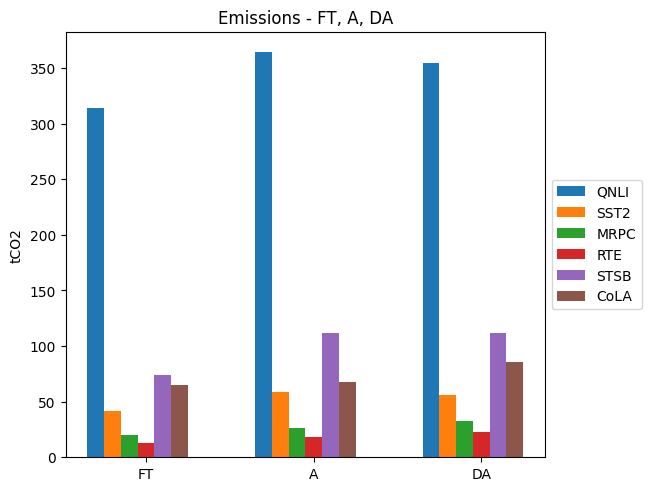
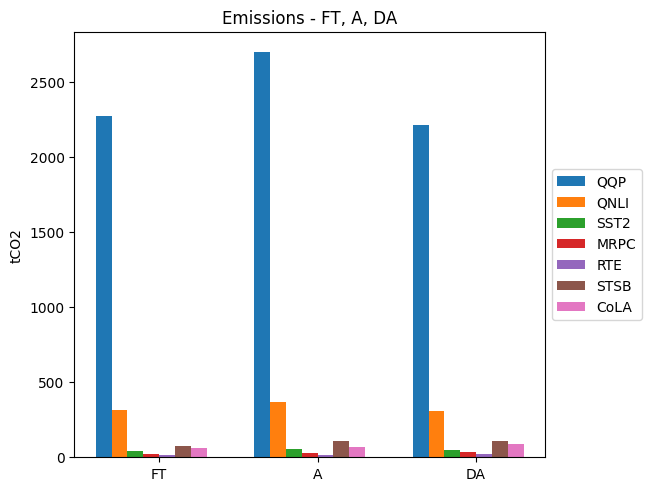
update plot

diff --git a/graph/graph_paper/Prune/PDA/plot_accuracy.py b/graph/graph_paper/Prune/PDA/plot_accuracy.py
@@ -1,17 +1,17 @@
 import matplotlib.pyplot as plt
 import numpy as np
 
-sparsity = (0.1, 0.6, 0.8, 0.9, 0.95)
+sparsity = (0.1, 0.6, 0.8, 0.9)
 
 accuracy = {
-    'QQP':(),
-    'SST2':(50.11467889908257,50.34403669724771,49.08256880733945,49.08256880733945,47.256880733945), #ok
-    'QNLI':(),
+    'QQP':(50.2699279739296,49.42090369751846,48.9144856820136,47.654662),
+    'SST2':(50.11467889908257,50.34403669724771,49.08256880733945,49.08256880733945), #ok
+    'QNLI':(45.17664287021783,47.51967783269266,48.67289035328574,50.19220208676551),
     # 'MNLI':(),
-    'MRPC':(85.04901960784313,81.37254901960784,68.38235294117647,68.38235294117647,68.38235294117647),#ok
-    'RTE':(46.20938628158845,46.93140794223827,47.29241877256318,47.29241877256318,47.29241877256318), # ok mais revoir les valeurs 
-    'STSB':(50.07428267557028,46.33345259898447,33.07965448934107,29.8084794950969,24.655022790058848),
-    'CoLA':(55.44150232282876,51.35883913087378,51.01325453983456,50.98463387782821,49.2) #ok
+    'MRPC':(85.04901960784313,81.37254901960784,68.38235294117647,68.38235294117647),#ok
+    'RTE':(46.20938628158845,46.93140794223827,47.29241877256318,47.29241877256318), # ok mais revoir les valeurs 
+    'STSB':(50.07428267557028,46.33345259898447,33.07965448934107,29.8084794950969),
+    'CoLA':(55.44150232282876,51.35883913087378,51.01325453983456,50.98463387782821) #ok
 }
 
 x = np.arange(len(sparsity))  # the label locations
@@ -25,10 +25,10 @@ for attribute, measurement in accuracy.items():
     multiplier += 1
 # ax.set_ylim(bottom=0, top=0.03)
 
-ax.set_ylabel('Accuracy')
-ax.set_title('Accuracy - FT, A, DA')
+ax.set_ylabel('Performance metrics')
+ax.set_title('Efficiency - P+D+A')
 ax.set_xticks(x + width * len(accuracy) / 2, sparsity)
 ax.legend(loc='center left', bbox_to_anchor=(1, 0.5))
 
-plt.savefig('../../../../images/paper/no_prune/graph_accuracy.png', bbox_inches='tight')
+plt.savefig('../../../../images/paper/prune/PDA/graph_accuracy.png', bbox_inches='tight')
 plt.show()

diff --git a/graph/graph_paper/Prune/PDA/plot_speedup.py b/graph/graph_paper/Prune/PDA/plot_speedup.py
@@ -1,17 +1,17 @@
 import matplotlib.pyplot as plt
 import numpy as np
 
-sparity = (0.1, 0.4, 0.6, 0.7, 0.8, 0.9, 0.95)
+sparity = (0.1, 0.6, 0.8, 0.9)
 
 size = {
-    'QQP':(),
-    'SST2':(1.9689297320645885,1.0352106679470167,0.5721097145605524,0.37766302670907536,0.272302670907536),#ok
-    'QNLI':(),
+    'QQP':(2.0437042459001526,0.982533986103172,0,0),
+    'SST2':(1.9689297320645885,0.5721097145605524,0.37766302670907536,0.272302670907536),#ok
+    'QNLI':(3.989732234922713,1.8229285003107676,1.0452005816492301,0.4941040771731565),
     # 'MNLI':(),
-    'MRPC':(4.206484439326268,1.987176782944623,1.2113391983988853,0.7892912263348622,0.4393470976251813),#ok
-    'RTE':(3.993594553587034,2.0576774587020568,1.2434098332321918,0.8254616110582622,0.48822109041933364),#ok
-    'STSB':(1.9787427918952806,1.0526622387400846,0.8368908982527883,0.5977909774111029,0.36043778636999296),#ok
-    'CoLA':()
+    'MRPC':(4.206484439326268,1.2113391983988853,0.7892912263348622,0.4393470976251813),#ok
+    'RTE':(3.993594553587034,1.2434098332321918,0.8254616110582622,0.48822109041933364),#ok
+    'STSB':(1.9787427918952806,0.8368908982527883,0.5977909774111029,0.36043778636999296),#ok
+    'CoLA':(1.9824828606847256,1.0158996405897223,0.5815955051026154,0.37790934084378164)#ok
 }
 
 x = np.arange(len(sparity))  # the label locations
@@ -25,10 +25,10 @@ for attribute, measurement in size.items():
     multiplier += 1
 # ax.set_ylim(bottom=0, top=0.03)
 
-ax.set_ylabel('Time')
+ax.set_ylabel('Time (ms)')
 ax.set_title('Speedup - P+D+A')
 ax.set_xticks(x + width * len(size) / 2, sparity)
 ax.legend(loc='center left', bbox_to_anchor=(1, 0.5))
 
-plt.savefig('../../../../images/paper/no_prune/graph_speedup.png', bbox_inches='tight')
+plt.savefig('../../../../images/paper/prune/PDA/graph_speedup.png', bbox_inches='tight')
 plt.show()

diff --git a/graph/graph_paper/Prune/PDA/plot_emissions.py b/graph/graph_paper/Prune/PDA/plot_emissions.py
@@ -1,17 +1,17 @@
 import matplotlib.pyplot as plt
 import numpy as np
 
-sparity = (0.1, 0.6, 0.8, 0.9, 0.95)
+sparity = (0.1, 0.6, 0.8, 0.9)
 
 accuracy = {
-    'QQP':(),
-    'SST2':(46.7708402,26.28957,16.25215,11.24177,9.2),#ok
-    'QNLI':(),
+    'QQP':(24.85539,12.59965,0,0),
+    'SST2':(46.7708402,26.28957,16.25215,11.24177),#ok
+    'QNLI':(280.426954,130.330862,75.0813811,38.964701),
     # 'MNLI':(),
-    'MRPC':(34.22431235531543,21.03471283150326,5.14063212116454,2.663924820912916,1.4348886455689411),# ok
-    'RTE':(12.47463769,6.11704943,3.5869906129,1.674946,1.0852959),#ok
-    'STSB':(80.93687,60.1658,45.5145054872,27.9758947,19.4759700), #ok
-    'CoLA':(47.052743671,21.78709,13.3962164,9.5512071,6.8) #ok
+    'MRPC':(34.22431235531543,21.03471283150326,5.14063212116454,2.663924820912916),# ok
+    'RTE':(12.47463769,6.11704943,3.5869906129,1.674946),#ok
+    'STSB':(80.93687,60.1658,45.5145054872,27.9758947), #ok
+    'CoLA':(47.052743671,21.78709,13.3962164,9.5512071) #ok
 }
 
 x = np.arange(len(sparity))  # the label locations
@@ -25,10 +25,10 @@ for attribute, measurement in accuracy.items():
     multiplier += 1
 # ax.set_ylim(bottom=0, top=0.03)
 
-ax.set_ylabel('Accuracy')
-ax.set_title('Accuracy - FT, A, DA')
+ax.set_ylabel('tCO2')
+ax.set_title('Emissions - P+D+A')
 ax.set_xticks(x + width * len(accuracy) / 2, sparity)
 ax.legend(loc='center left', bbox_to_anchor=(1, 0.5))
 
-plt.savefig('../../../../images/paper/no_prune/graph_accuracy.png', bbox_inches='tight')
+plt.savefig('../../../../images/paper/prune/PDA/graph_emissions.png', bbox_inches='tight')
 plt.show()

diff --git a/graph/graph_paper/Prune/PDA/plot_size.py b/graph/graph_paper/Prune/PDA/plot_size.py
@@ -1,17 +1,17 @@
 import matplotlib.pyplot as plt
 import numpy as np
 
-sparity = (0.1, 0.6, 0.8, 0.9, 0.95)
+sparity = (0.1, 0.6, 0.8, 0.9)
 
 size = {
-    'QQP':(),
-    'SST2':(76049304,34097540,16384751,8215074,7782701), #ok
-    'QNLI':(),
+    'QQP':(76426035,33511554,0,0),
+    'SST2':(76049304,34097540,16384751,8215074), #ok
+    'QNLI':(76562344,33648114,16662863,8424932),
     # 'MNLI':(),
-    'MRPC':(76540882,32932376,16539959,8416474,4068266), #ok
-    'RTE':(76354113,32805867,16636990,8320087,4216324),#ok
-    'STSB':(76063863,33768329,16552541,8592128,3681616), #ok
-    'CoLA':(76198069,33519092,16572287,8778579,3758515) #ok
+    'MRPC':(76540882,32932376,16539959,8416474), #ok
+    'RTE':(76354113,32805867,16636990,8320087),#ok
+    'STSB':(76063863,33768329,16552541,8592128), #ok
+    'CoLA':(76198069,33519092,16572287,8778579) #ok
 }
 
 x = np.arange(len(sparity))  # the label locations
@@ -25,10 +25,10 @@ for attribute, measurement in size.items():
     multiplier += 1
 # ax.set_ylim(bottom=0, top=0.03)
 
-ax.set_ylabel('Accuracy')
-ax.set_title('Accuracy - FT, A, DA')
+ax.set_ylabel('Size (params)')
+ax.set_title('Model size - P+D+A')
 ax.set_xticks(x + width * len(size) / 2, sparity)
 ax.legend(loc='center left', bbox_to_anchor=(1, 0.5))
 
-plt.savefig('../../../../images/paper/no_prune/graph_accuracy.png', bbox_inches='tight')
+plt.savefig('../../../../images/paper/prune/PDA/graph_size.png', bbox_inches='tight')
 plt.show()

diff --git a/graph/graph_paper/Prune/PA/plot_size.py b/graph/graph_paper/Prune/PA/plot_size.py
@@ -1,7 +1,7 @@
 import matplotlib.pyplot as plt
 import numpy as np
 
-sparity = (0.1, 0.4, 0.6, 0.7, 0.8, 0.9, 0.95)
+sparity = (0.1, 0.6, 0.7, 0.8, 0.9, 0.95)
 
 size = {
     'QQP':(76426035,52424818,33511554,17336240,7736329,3564516),
@@ -25,10 +25,10 @@ for attribute, measurement in size.items():
     multiplier += 1
 # ax.set_ylim(bottom=0, top=0.03)
 
-ax.set_ylabel('size (Mb)')
-ax.set_title('Model size - PA')
+ax.set_ylabel('Size (params)')
+ax.set_title('Model size - P + A')
 ax.set_xticks(x + width * len(size) / 2, sparity)
 ax.legend(loc='center left', bbox_to_anchor=(1, 0.5))
 
-plt.savefig('../../../../images/paper/no_prune/PA/graph_size.png', bbox_inches='tight')
+plt.savefig('../../../../images/paper/prune/PA/graph_size.png', bbox_inches='tight')
 plt.show()

diff --git a/graph/graph_paper/Prune/PA/plot_speedup.py b/graph/graph_paper/Prune/PA/plot_speedup.py
@@ -25,10 +25,10 @@ for attribute, measurement in accuracy.items():
     multiplier += 1
 # ax.set_ylim(bottom=0, top=0.03)
 
-ax.set_ylabel('Speedup (ms)')
-ax.set_title('Accuracy - FT, A, DA')
+ax.set_ylabel('Time (ms)')
+ax.set_title('Speedup - P + A')
 ax.set_xticks(x + width * len(accuracy) / 2, sparity)
 ax.legend(loc='center left', bbox_to_anchor=(1, 0.5))
 
-plt.savefig('../../../../images/paper/no_prune/graph_speedup.png', bbox_inches='tight')
+plt.savefig('../../../../images/paper/prune/PA/graph_speedup.png', bbox_inches='tight')
 plt.show()

diff --git a/graph/graph_paper/Prune/PA/plot_emissions.py b/graph/graph_paper/Prune/PA/plot_emissions.py
@@ -26,9 +26,9 @@ for attribute, measurement in accuracy.items():
 # ax.set_ylim(bottom=0, top=0.03)
 
 ax.set_ylabel('tCO2')
-ax.set_title('Emissions - PA')
+ax.set_title('Emissions - P + A')
 ax.set_xticks(x + width * len(accuracy) / 2, sparity)
 ax.legend(loc='center left', bbox_to_anchor=(1, 0.5))
 
-plt.savefig('../../../../images/paper/no_prune/graph_emissions.png', bbox_inches='tight')
+plt.savefig('../../../../images/paper/prune/PA/graph_emissions.png', bbox_inches='tight')
 plt.show()

diff --git a/graph/graph_paper/NoPrune/plot_accuracy.py b/graph/graph_paper/NoPrune/plot_accuracy.py
@@ -25,8 +25,8 @@ for attribute, measurement in accuracy.items():
     multiplier += 1
 # ax.set_ylim(bottom=0, top=0.03)
 
-ax.set_ylabel('Accuracy')
-ax.set_title('Accuracy - FT, A, DA')
+ax.set_ylabel('Performance metrics')
+ax.set_title('Efficiency - FT, A, DA')
 ax.set_xticks(x + width * len(accuracy) / 2, sparity)
 ax.legend(loc='center left', bbox_to_anchor=(1, 0.5))
 

diff --git a/graph/graph_paper/Prune/PA/plot_accuracy.py b/graph/graph_paper/Prune/PA/plot_accuracy.py
@@ -30,5 +30,5 @@ ax.set_title('Efficiency - P + A')
 ax.set_xticks(x + width * len(accuracy) / 2, sparity)
 ax.legend(loc='center left', bbox_to_anchor=(1, 0.5))
 
-plt.savefig('../../../../images/paper/no_prune/graph_accuracy.png', bbox_inches='tight')
+plt.savefig('../../../../images/paper/prune/PA/graph_accuracy.png', bbox_inches='tight')
 plt.show()

diff --git a/graph/graph_paper/NoPrune/plot_size.py b/graph/graph_paper/NoPrune/plot_size.py
@@ -25,7 +25,7 @@ for attribute, measurement in accuracy.items():
     multiplier += 1
 # ax.set_ylim(bottom=0, top=0.03)
 
-ax.set_ylabel('Size (bites)')
+ax.set_ylabel('Size (params)')
 ax.set_title('Model size - FT, A, DA')
 ax.set_xticks(x + width * len(accuracy) / 2, sparity)
 ax.legend(loc='center left', bbox_to_anchor=(1, 0.5))
